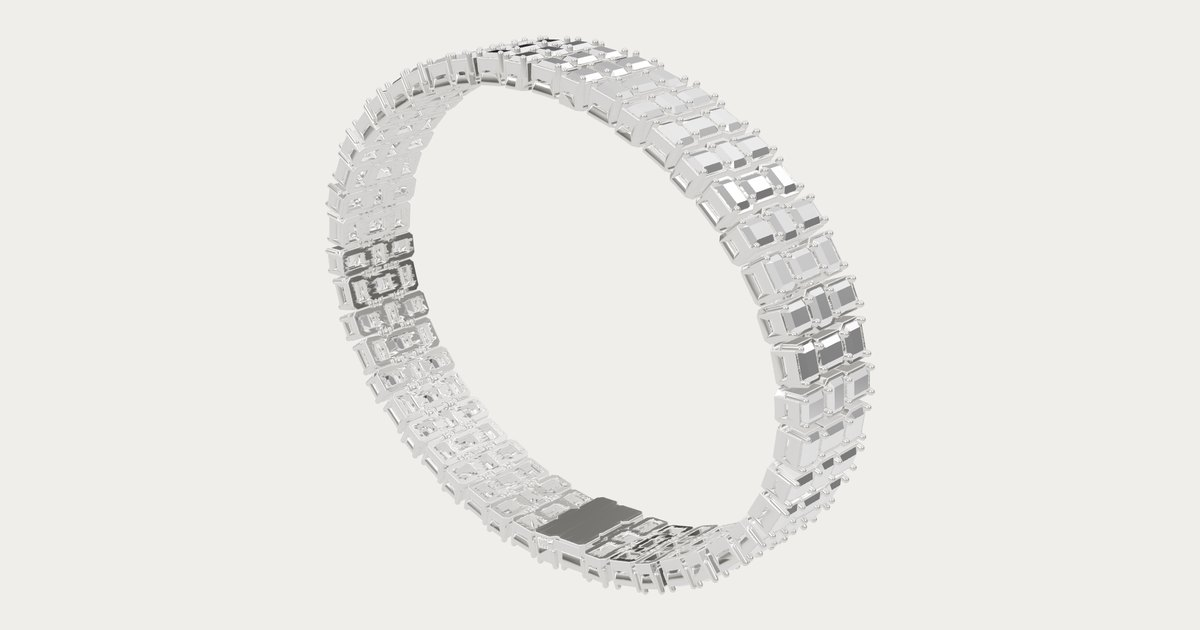
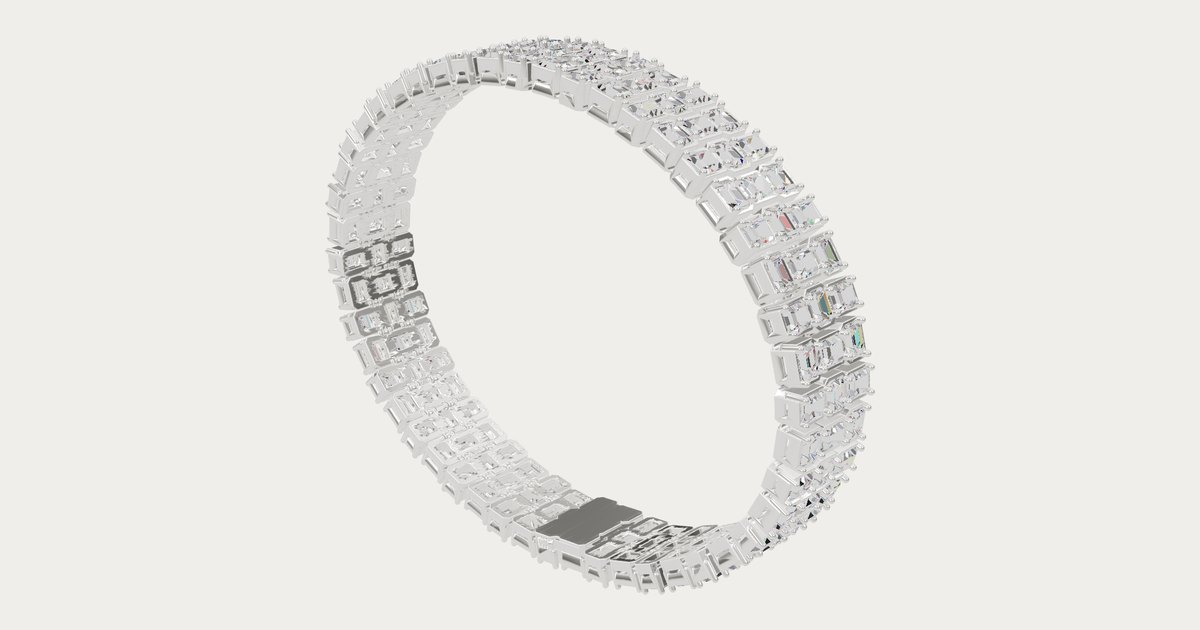
Publish baguette-tennis-closed

Changed region(s): [[0.4008, 0.0603, 0.74, 0.8444], [0.6167, 0.8444, 0.6475, 0.8746]]

diff --git a/baguette-tennis-closed/index.html b/baguette-tennis-closed/index.html
@@ -11,7 +11,7 @@
 <meta property="og:title" content="צמיד טניס בגט">
 <meta property="og:description" content="3 שורות שחמט · סגור על היד">
 <meta property="og:url" content="https://israelbitton-web.github.io/jewelry-3d/baguette-tennis-closed/">
-<meta property="og:image" content="https://israelbitton-web.github.io/jewelry-3d/baguette-tennis-closed/preview.jpg?v=1793550328">
+<meta property="og:image" content="https://israelbitton-web.github.io/jewelry-3d/baguette-tennis-closed/preview.jpg?v=1793552108">
 <meta property="og:image:width" content="1200">
 <meta property="og:image:height" content="630">
 <meta name="twitter:card" content="summary_large_image">
@@ -299,7 +299,7 @@ const CAPTURE = Q.has('capture');
 const CSIZE = +(Q.get('size') || 1080);
 if (CAPTURE) document.body.classList.add('capture');
 const CFG = await fetch('config.json', { cache: 'no-cache' }).then((r) => r.ok ? r.json() : {}).catch(() => ({}));
-const BUILD = '1793550328';
+const BUILD = '1793552108';
 if (CFG.v && BUILD !== '__BUILD__' && CFG.v !== BUILD && Q.get('r') !== CFG.v) { const u = new URL(location.href); u.searchParams.set('r', CFG.v); location.replace(u); }
 // language: every text on the page in one table; the switch (he / fr / en) rewrites all of it, details included.
 // start = ?lang=, then the visitor's last choice, then config "lang" ("auto" = the phone's language; default Hebrew)
